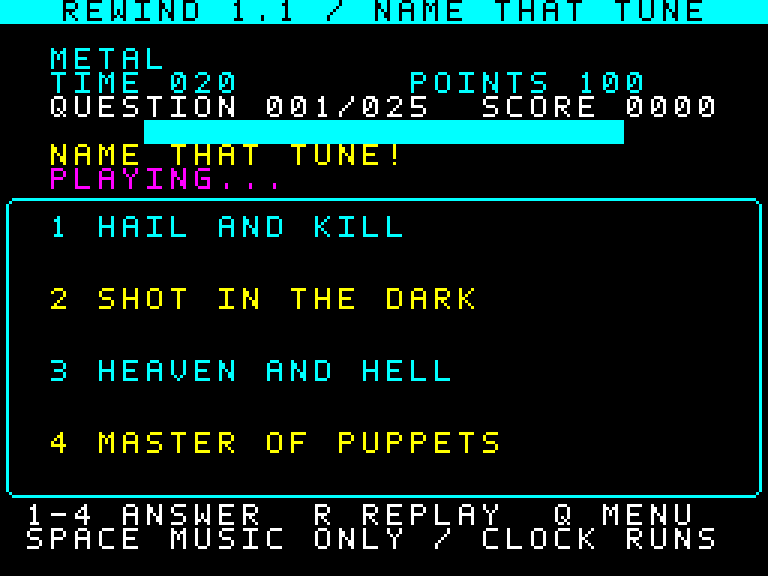
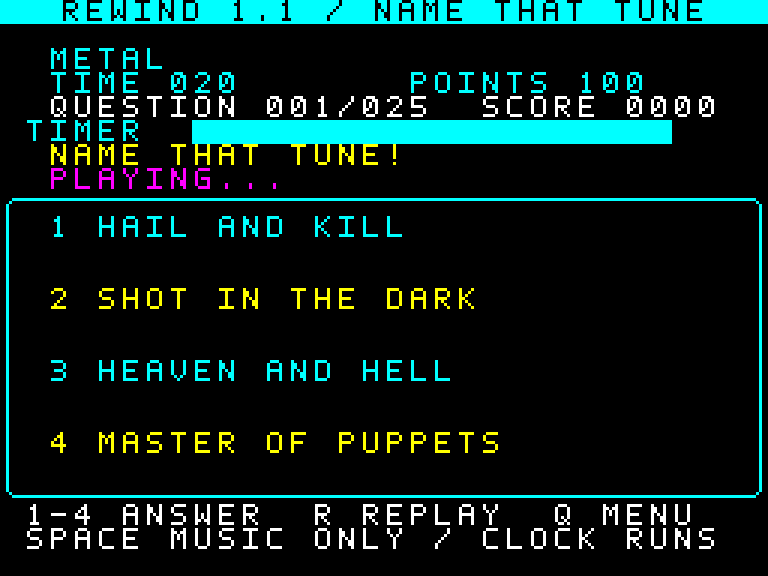
Label the countdown bar TIMER and retain space before the bar

Changed region(s): [[0.0312, 0.1875, 0.25, 0.25], [0.8125, 0.1875, 0.875, 0.25]]

diff --git a/source/verify_timer.py b/source/verify_timer.py
@@ -42,7 +42,7 @@ def test():
  for i,row in enumerate([9,12,15,18]):
   a=h.m.memory[22528+row*32+2]
   assert a==0x44 if i==correct else a in (0x45,0x46)
- for col in range(6,26):assert glyph(h,5,col)==bytes(8)
+ for col in range(8,28):assert glyph(h,5,col)==bytes(8)
  h.image().resize((768,576),Image.Resampling.NEAREST).save(P/'Rewind_Time_Up.png')
  clock_advance(h,100);assert h.get('mode')==2 and h.word('score')==0
  h.action(32);assert h.get('mode')==1 and h.get('question_seconds')==20
